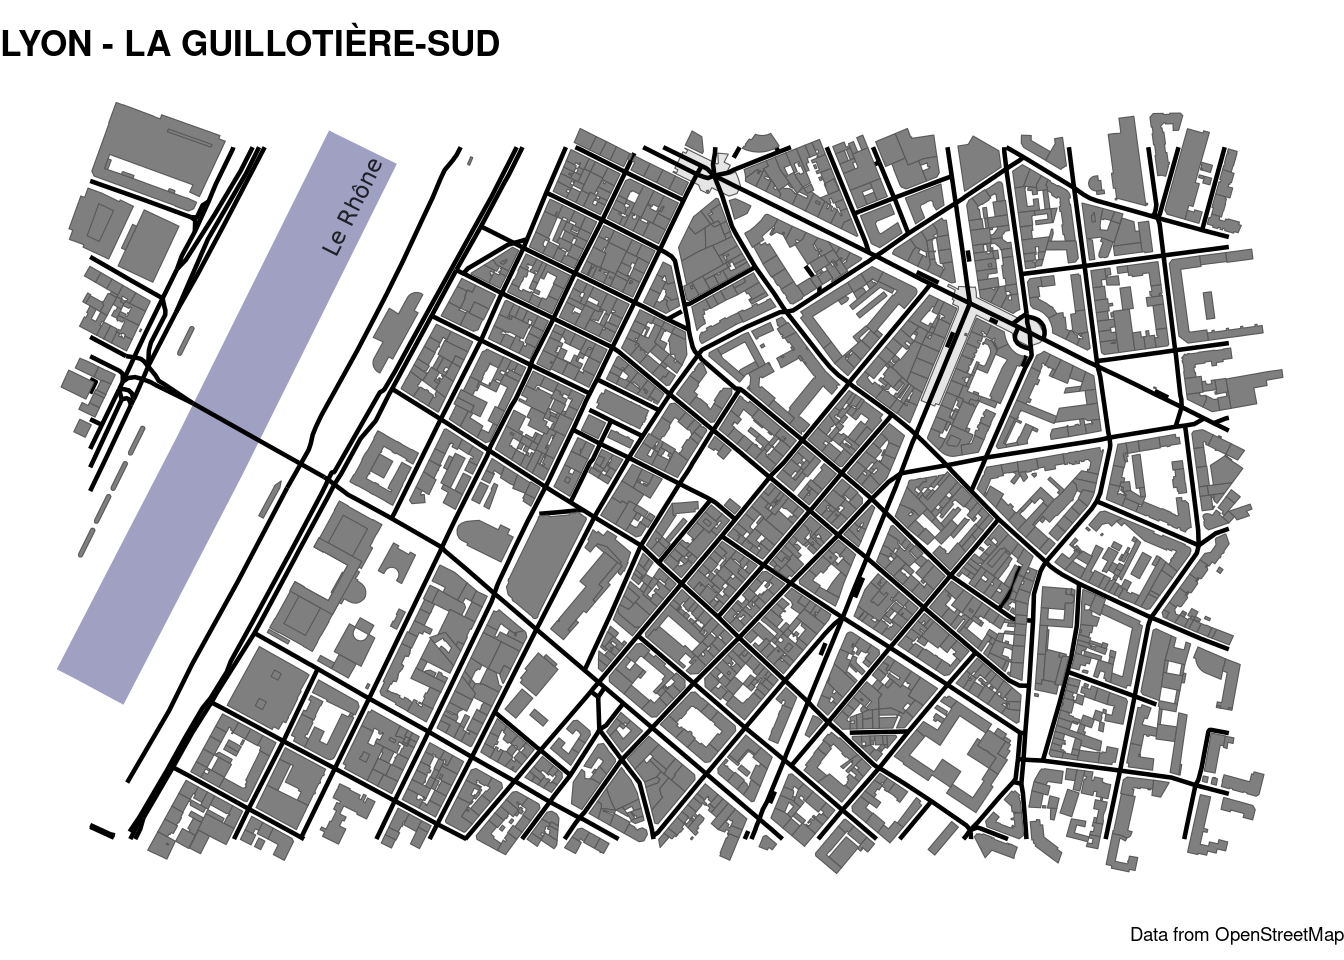
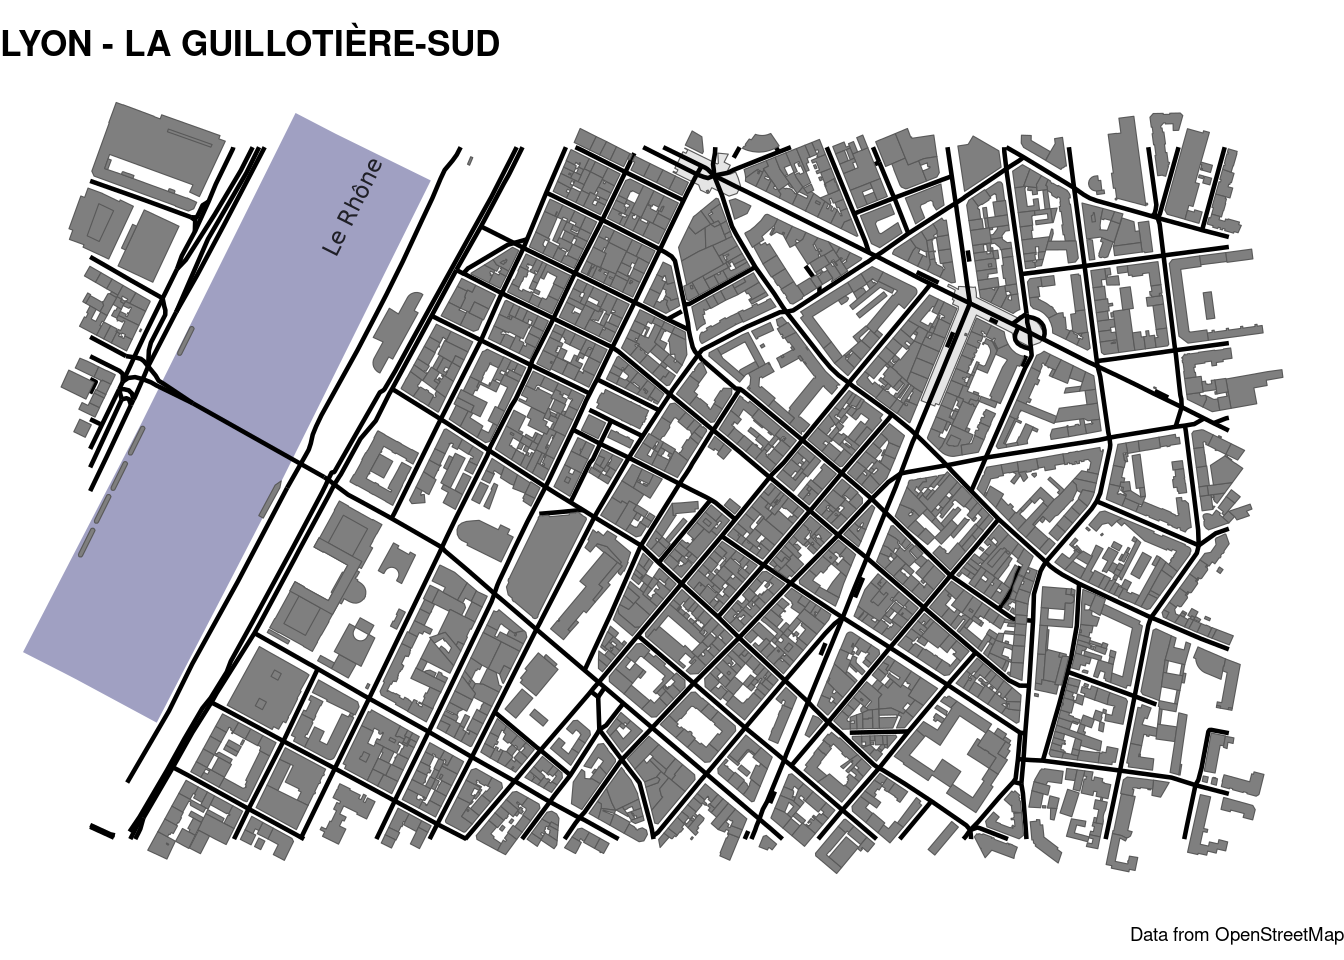
Built site for gh-pages

Changed region(s): [[0.0938, 0.1562, 0.3438, 0.75], [0.0, 0.125, 0.25, 0.6875]]

diff --git a/index.html b/index.html
@@ -201,7 +201,7 @@ window.Quarto = {
 
 <div class="quarto-listing quarto-listing-container-default" id="listing-listing">
 <div class="list quarto-listing-default">
-<div class="quarto-post image-right" data-index="0" data-categories="code,r,maps" data-listing-date-sort="1721952000000" data-listing-file-modified-sort="1722084990570" data-listing-date-modified-sort="NaN" data-listing-reading-time-sort="6" data-listing-word-count-sort="1176">
+<div class="quarto-post image-right" data-index="0" data-categories="code,r,maps" data-listing-date-sort="1721952000000" data-listing-file-modified-sort="1722114867860" data-listing-date-modified-sort="NaN" data-listing-reading-time-sort="6" data-listing-word-count-sort="1176">
 <div class="thumbnail">
 <p><a href="./posts/osm_in_R/index.html" class="no-external"></a></p><a href="./posts/osm_in_R/index.html" class="no-external">
 <p class="card-img-top"><img src="posts/osm_in_R/index_files/figure-html/unnamed-chunk-2-1.png"  class="thumbnail-image card-img"/></p>
@@ -240,7 +240,7 @@ Ruben
 </a>
 </div>
 </div>
-<div class="quarto-post image-right" data-index="1" data-categories="code,r,quarto,github" data-listing-date-sort="1718668800000" data-listing-file-modified-sort="1722084990570" data-listing-date-modified-sort="NaN" data-listing-reading-time-sort="6" data-listing-word-count-sort="1184">
+<div class="quarto-post image-right" data-index="1" data-categories="code,r,quarto,github" data-listing-date-sort="1718668800000" data-listing-file-modified-sort="1722114867860" data-listing-date-modified-sort="NaN" data-listing-reading-time-sort="6" data-listing-word-count-sort="1184">
 <div class="thumbnail">
 <p><a href="./posts/dashboard_self_update/index.html" class="no-external"></a></p><a href="./posts/dashboard_self_update/index.html" class="no-external">
 <p class="card-img-top"><img src="posts/dashboard_self_update/images/dashboard_screenshot.png"  class="thumbnail-image card-img"/></p>
@@ -282,7 +282,7 @@ Ruben
 </a>
 </div>
 </div>
-<div class="quarto-post image-right" data-index="2" data-categories="code,r,packages,rstudio" data-listing-date-sort="1718668800000" data-listing-file-modified-sort="1722084990574" data-listing-date-modified-sort="NaN" data-listing-reading-time-sort="4" data-listing-word-count-sort="623">
+<div class="quarto-post image-right" data-index="2" data-categories="code,r,packages,rstudio" data-listing-date-sort="1718668800000" data-listing-file-modified-sort="1722114867864" data-listing-date-modified-sort="NaN" data-listing-reading-time-sort="4" data-listing-word-count-sort="623">
 <div class="thumbnail">
 <p><a href="./posts/package_development_rstudio/index.html" class="no-external"></a></p><a href="./posts/package_development_rstudio/index.html" class="no-external">
 <p><img loading="lazy" src="./posts/package_development_rstudio/images/packages_logo.png" class="thumbnail-image"></p>
@@ -324,7 +324,7 @@ Leo
 </a>
 </div>
 </div>
-<div class="quarto-post image-right" data-index="3" data-categories="code,r,quarto,github" data-listing-date-sort="1718150400000" data-listing-file-modified-sort="1722084990574" data-listing-date-modified-sort="NaN" data-listing-reading-time-sort="1" data-listing-word-count-sort="155">
+<div class="quarto-post image-right" data-index="3" data-categories="code,r,quarto,github" data-listing-date-sort="1718150400000" data-listing-file-modified-sort="1722114867864" data-listing-date-modified-sort="NaN" data-listing-reading-time-sort="1" data-listing-word-count-sort="155">
 <div class="thumbnail">
 <p><a href="./posts/renv_install_packages/index.html" class="no-external"></a></p><a href="./posts/renv_install_packages/index.html" class="no-external">
 <p><img loading="lazy" src="https://rstudio.github.io/renv/reference/figures/logo.svg" class="thumbnail-image"></p>

diff --git a/posts/osm_in_R/index.html b/posts/osm_in_R/index.html
@@ -280,7 +280,7 @@ pre > code.sourceCode > span > a:first-child::before { text-decoration: underlin
 <span id="cb6-4"><a href="#cb6-4" aria-hidden="true" tabindex="-1"></a>              <span class="at">label =</span> name),</span>
 <span id="cb6-5"><a href="#cb6-5" aria-hidden="true" tabindex="-1"></a>          <span class="at">text_smoothing =</span> <span class="fl">99.5</span>,</span>
 <span id="cb6-6"><a href="#cb6-6" aria-hidden="true" tabindex="-1"></a>          <span class="at">linecolour =</span> <span class="st">"#8888B3"</span>,</span>
-<span id="cb6-7"><a href="#cb6-7" aria-hidden="true" tabindex="-1"></a>          <span class="at">linewidth =</span> <span class="dv">10</span>,</span>
+<span id="cb6-7"><a href="#cb6-7" aria-hidden="true" tabindex="-1"></a>          <span class="at">linewidth =</span> <span class="dv">20</span>,</span>
 <span id="cb6-8"><a href="#cb6-8" aria-hidden="true" tabindex="-1"></a>          <span class="at">color =</span> <span class="st">"black"</span>, </span>
 <span id="cb6-9"><a href="#cb6-9" aria-hidden="true" tabindex="-1"></a>          <span class="at">alpha =</span> <span class="fl">0.8</span>, </span>
 <span id="cb6-10"><a href="#cb6-10" aria-hidden="true" tabindex="-1"></a>          <span class="at">size =</span> <span class="dv">3</span>, </span>
@@ -322,7 +322,7 @@ pre > code.sourceCode > span > a:first-child::before { text-decoration: underlin
 <span id="cb7-4"><a href="#cb7-4" aria-hidden="true" tabindex="-1"></a>              <span class="at">label =</span> name),</span>
 <span id="cb7-5"><a href="#cb7-5" aria-hidden="true" tabindex="-1"></a>          <span class="at">text_smoothing =</span> <span class="fl">99.5</span>,</span>
 <span id="cb7-6"><a href="#cb7-6" aria-hidden="true" tabindex="-1"></a>          <span class="at">linecolour =</span> <span class="st">"#8888B3"</span>,</span>
-<span id="cb7-7"><a href="#cb7-7" aria-hidden="true" tabindex="-1"></a>          <span class="at">linewidth =</span> <span class="dv">10</span>,</span>
+<span id="cb7-7"><a href="#cb7-7" aria-hidden="true" tabindex="-1"></a>          <span class="at">linewidth =</span> <span class="dv">20</span>,</span>
 <span id="cb7-8"><a href="#cb7-8" aria-hidden="true" tabindex="-1"></a>          <span class="at">color =</span> <span class="st">"black"</span>, </span>
 <span id="cb7-9"><a href="#cb7-9" aria-hidden="true" tabindex="-1"></a>          <span class="at">alpha =</span> <span class="fl">0.8</span>, </span>
 <span id="cb7-10"><a href="#cb7-10" aria-hidden="true" tabindex="-1"></a>          <span class="at">size =</span> <span class="dv">3</span>, </span>
